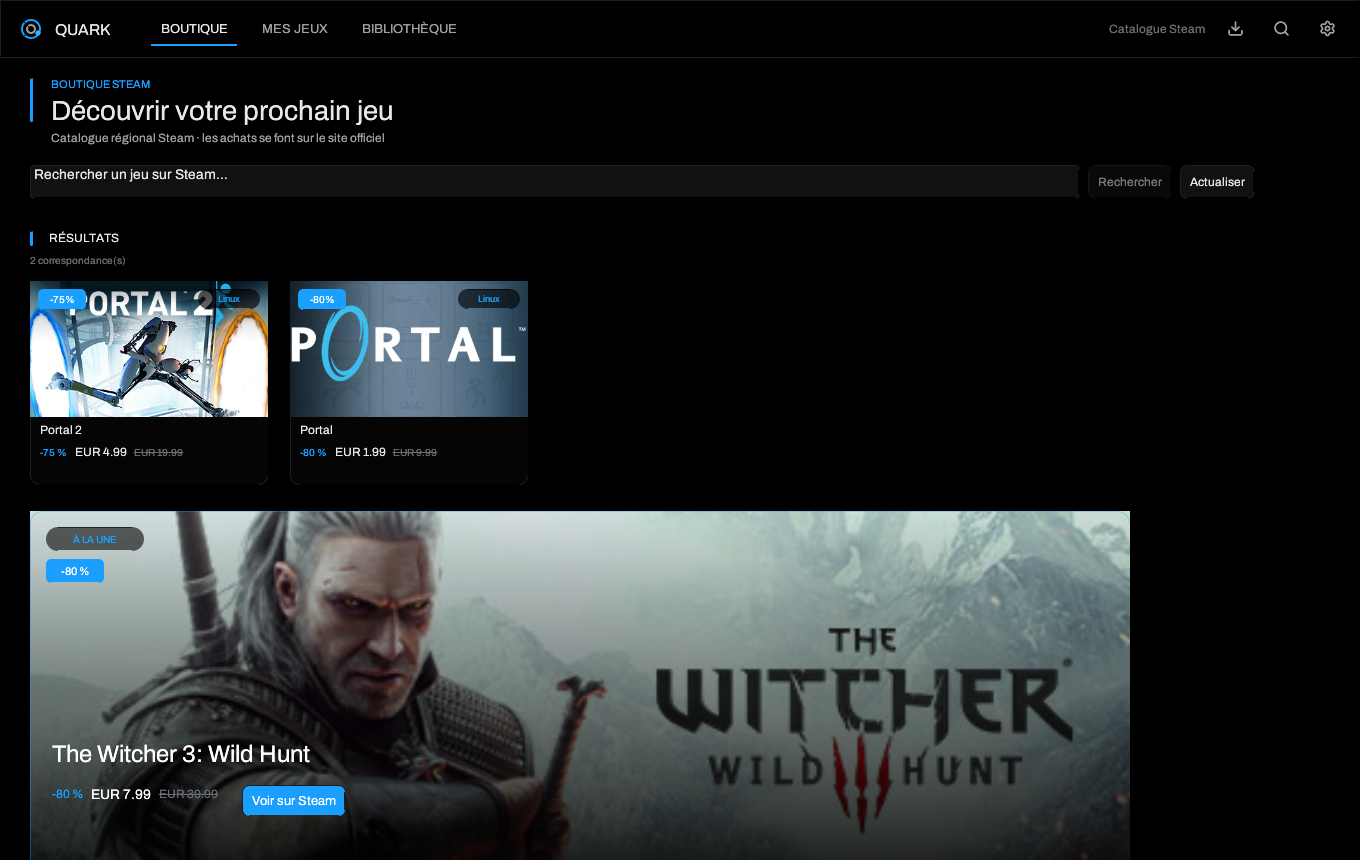
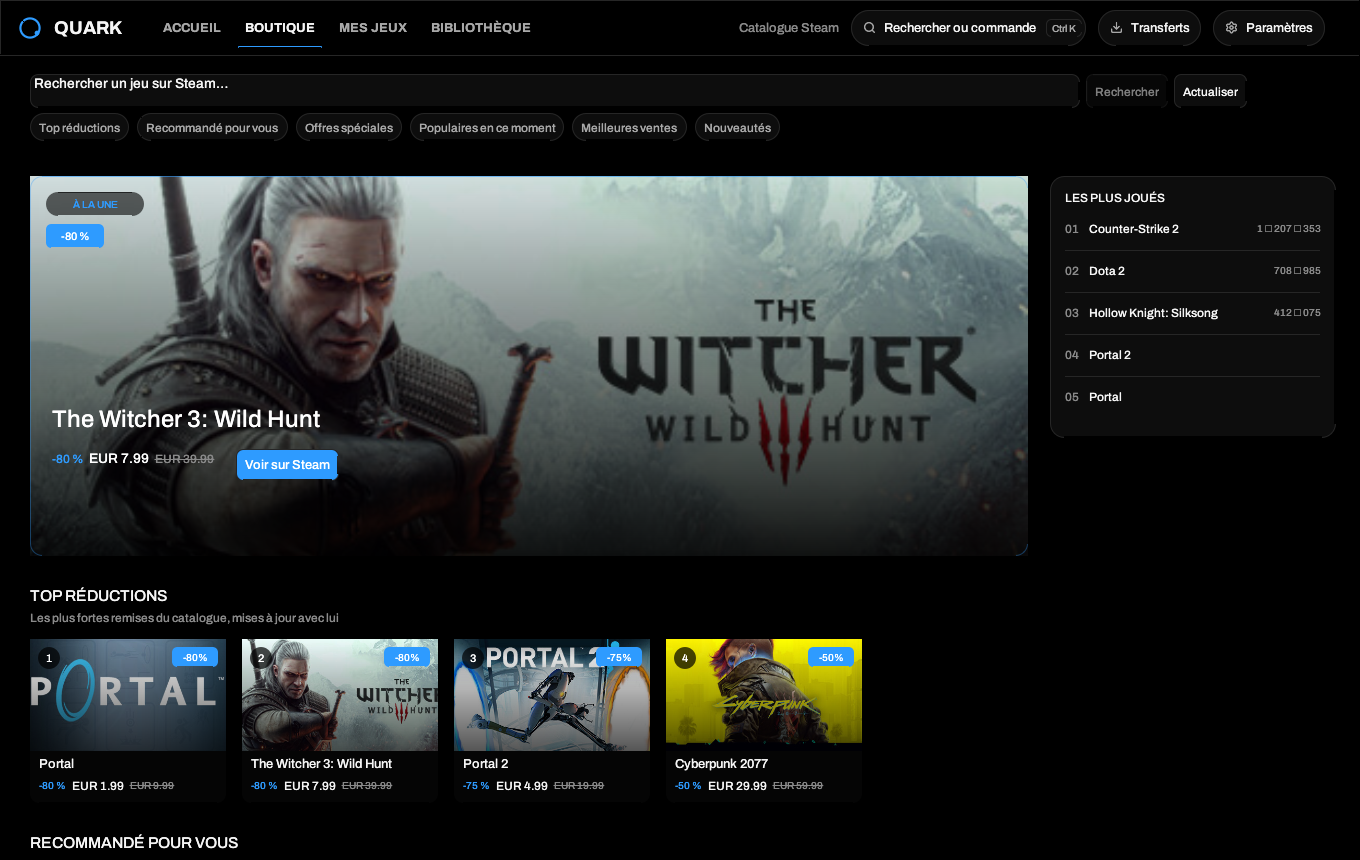
Fait de l'accueil une page autonome
L'accueil a désormais son propre onglet dans la barre haute et s'affiche
sans colonne de filtres. La bibliothèque garde la sienne, et l'état vide
commun guide vers l'ajout, Steam et les boutiques. Les captures du site et
le premier lancement sont mis à jour, avec itch.io et les cinq langues.

🤖 Generated with Codebuff

diff --git a/src/ui_library.rs b/src/ui_library.rs
@@ -19,12 +19,11 @@ impl QuarkApp {
         // Vue grille : **seulement** la grille. La fiche du jeu s'ouvre en
         // surimpression, avec sa croix, et se ferme d'un clic à côté.
         let grid_only = view == ViewMode::Grid;
-        // La colonne de gauche reste visible dans toutes les vues de la
-        // bibliothèque : c'est là que vivent « Accueil » et les filtres, même
-        // quand la grille occupe le reste de la fenêtre. Une bibliothèque
-        // entièrement vide n'a rien à y filtrer : la fiche prend toute la place.
-        let empty_library = self.lib.games.is_empty() && !self.home;
-        if !empty_library {
+        // L'accueil est une page autonome : il n'a pas de colonne de filtres.
+        // La bibliothèque garde la sienne, sauf quand elle est entièrement vide
+        // et que la fiche peut utiliser toute la largeur.
+        let empty_library = self.lib.games.is_empty();
+        if !self.home && !empty_library {
             egui::SidePanel::left("quark_library_list")
                 .exact_width(self.lib.settings.sidebar_width.clamp(220.0, 340.0))
                 .resizable(false)
@@ -56,7 +55,7 @@ impl QuarkApp {
                 }
             });
 
-        if grid_only {
+        if grid_only && !self.home {
             self.detail_overlay(ctx);
         }
     }
@@ -598,16 +597,8 @@ impl QuarkApp {
             });
         });
         ui.add_space(10.0);
-        let (home_clicked, add_clicked) = widgets::home_row(ui, self.home, &pal);
-        if home_clicked {
-            self.home = true;
-        }
-        if add_clicked {
-            self.open_add_dialog();
-        }
-
-        // Une seule commande sous « Accueil » : le panneau Filtres réunit
-        // aussi les vues enregistrées, le tri et le regroupement.
+        // L'accueil a son onglet dans la barre haute : la colonne ne garde que
+        // le panneau Filtres, qui réunit aussi les vues, le tri et le regroupement.
         self.filter_menu(ui, 16.0);
         if marked_count > 0 {
             // Barre de sélection : supprimer plusieurs jeux d'un coup.
@@ -1685,7 +1676,7 @@ impl QuarkApp {
         }
     }
 
-    fn empty_state(&mut self, ui: &mut egui::Ui) {
+    pub(crate) fn empty_state(&mut self, ui: &mut egui::Ui) {
         let pal = self.pal;
         // Une bibliothèque vide n'est pas une absence de sélection : on guide
         // vers les trois façons de la remplir au lieu d'afficher un texte seul.
@@ -1728,7 +1719,14 @@ impl QuarkApp {
                                 .color(pal.text_dim),
                             );
                             ui.add_space(20.0);
-                            ui.horizontal_wrapped(|ui| {
+                            // Les boutons sont mesurés pour centrer la rangée
+                            // sans dépendre de la largeur de leurs traductions.
+                            let row_width = 176.0
+                                + ui.spacing().item_spacing.x * 2.0
+                                + ghost_button_width(ui, "Importer Steam")
+                                + ghost_button_width(ui, "Explorer les boutiques");
+                            ui.horizontal(|ui| {
+                                ui.add_space((ui.available_width() - row_width).max(0.0) / 2.0);
                                 if widgets::accent_button(
                                     ui,
                                     Vec2::new(176.0, 38.0),
@@ -3002,4 +3000,15 @@ fn history_metric(ui: &mut egui::Ui, pal: &Palette, label: &str, value: &str) {
         ui.label(crate::i18n::rich(label).size(11.0).color(pal.text_faint));
         ui.label(crate::i18n::rich(value).size(15.0).strong().color(pal.text));
     });
+}
+
+/// Largeur du bouton fantôme tel que `widgets::ghost_button` le dessine :
+/// libellé traduit + icône + gouttière + marges.
+fn ghost_button_width(ui: &egui::Ui, label: &str) -> f32 {
+    let galley = ui.painter().layout_no_wrap(
+        crate::i18n::tr(label),
+        egui::FontId::proportional(12.5),
+        egui::Color32::WHITE,
+    );
+    galley.size().x + 13.0 + 8.0 + 24.0
 }

diff --git a/src/app.rs b/src/app.rs
@@ -3067,16 +3067,21 @@ impl QuarkApp {
                     );
                     ui.add_space(26.0);
 
-                    // L'accueil n'a plus d'onglet dédié : il s'ouvre par la
-                    // ligne « Accueil » de la colonne de gauche, juste au-dessus
-                    // des filtres. « Bibliothèque » reste actif sur les deux
-                    // pages, comme un seul et même espace.
-                    let library_active = self.tab == Tab::Library;
+                    // L'accueil est une page autonome : il a son propre onglet
+                    // et ne partage plus l'état actif de la bibliothèque.
+                    let home_active = self.tab == Tab::Library && self.home;
+                    let library_active = self.tab == Tab::Library && !self.home;
+                    if widgets::tab(ui, "Accueil", home_active, &pal).clicked() {
+                        self.tab = Tab::Library;
+                        self.home = true;
+                    }
                     if widgets::tab(ui, "Boutique", self.tab == Tab::Store, &pal).clicked() {
                         self.tab = Tab::Store;
+                        self.home = false;
                     }
                     if widgets::tab(ui, "Mes jeux", self.tab == Tab::MyGames, &pal).clicked() {
                         self.tab = Tab::MyGames;
+                        self.home = false;
                     }
                     if widgets::tab(ui, "Bibliothèque", library_active, &pal).clicked() {
                         self.tab = Tab::Library;
@@ -3090,7 +3095,7 @@ impl QuarkApp {
                         // recherche) et demande donc plus de place que les autres
                         // onglets. En dessous, on garde les icônes seules pour ne
                         // pas faire chevaucher les onglets.
-                        let wide_threshold = if self.tab == Tab::Library {
+                        let wide_threshold = if self.tab == Tab::Library && !self.home {
                             1480.0
                         } else {
                             1180.0
@@ -3149,8 +3154,9 @@ impl QuarkApp {
                         }
                         ui.add_space(6.0);
                         // La bibliothèque a déjà son champ de recherche :
-                        // l'icône de palette y faisait doublon.
-                        let palette_clicked = if self.tab == Tab::Library {
+                        // l'icône de palette y faisait doublon. L'accueil, lui,
+                        // garde la recherche globale.
+                        let palette_clicked = if self.tab == Tab::Library && !self.home {
                             false
                         } else if wide {
                             widgets::pill_button(
@@ -3180,7 +3186,7 @@ impl QuarkApp {
                         // Seul endroit où l'on bascule de vue : un contrôle
                         // segmenté aux libellés visibles, et un bouton
                         // « Ajouter » explicite à la place de trois icônes.
-                        if self.tab == Tab::Library {
+                        if self.tab == Tab::Library && !self.home {
                             if widgets::icon_button(ui, 34.0, Icon::Plus, &pal, "Ajouter un jeu")
                                 .clicked()
                             {
@@ -3201,7 +3207,7 @@ impl QuarkApp {
                             }
                             ui.add_space(10.0);
                         }
-                        if self.tab == Tab::Library {
+                        if self.tab == Tab::Library && !self.home {
                             ui.add_space(8.0);
                             if widgets::icon_button(
                                 ui,

diff --git a/src/widgets.rs b/src/widgets.rs
@@ -958,94 +958,6 @@ pub fn setting_toggle(
     response
 }
 
-/// Entrée « Accueil » : première ligne de la liste, pleine largeur comme dans
-/// Steam. Elle suit la même grille que les rangées de jeux (carré de 36 px à
-/// 16 px du bord, titre à 66 px, repère d'accent à gauche), si bien que la liste
-/// s'aligne du haut en bas. Le « + » d'ajout est posé à droite de la même ligne.
-/// Renvoie `(accueil cliqué, ajout cliqué)`.
-pub fn home_row(ui: &mut egui::Ui, selected: bool, pal: &Palette) -> (bool, bool) {
-    let (rect, resp) =
-        ui.allocate_exact_size(Vec2::new(ui.available_width(), 46.0), Sense::click());
-    let painter = ui.painter_at(rect);
-    let id = ui.id().with("quark-home-row");
-    let hover = ui
-        .ctx()
-        .animate_bool_with_time(id.with("hover"), resp.hovered(), 0.12);
-    let mark = ui
-        .ctx()
-        .animate_bool_with_time(id.with("selected"), selected, 0.16);
-    if hover > 0.0 {
-        painter.rect_filled(
-            rect,
-            10.0,
-            theme::lerp_color(Color32::TRANSPARENT, pal.surface_hover, hover),
-        );
-    }
-    if mark > 0.0 {
-        painter.rect_filled(rect, 10.0, pal.surface_hover.gamma_multiply(mark));
-        let height = (rect.height() - 10.0) * mark;
-        painter.rect_filled(
-            Rect::from_min_size(
-                Pos2::new(rect.left(), rect.center().y - height / 2.0),
-                Vec2::new(3.0, height),
-            ),
-            1.5,
-            pal.accent.gamma_multiply(mark),
-        );
-    }
-    let tile = Rect::from_min_size(
-        Pos2::new(rect.left() + 16.0, rect.center().y - 18.0),
-        Vec2::splat(36.0),
-    );
-    painter.rect_filled(
-        tile,
-        7.0,
-        theme::lerp_color(pal.surface, pal.surface_hover, hover),
-    );
-    let ink = if selected {
-        pal.text
-    } else {
-        theme::lerp_color(pal.text_dim, pal.text, hover)
-    };
-    paint_icon(
-        ui,
-        Rect::from_center_size(tile.center(), Vec2::splat(17.0)),
-        Icon::Home,
-        if selected { pal.accent } else { ink },
-    );
-    painter.text(
-        Pos2::new(rect.left() + 66.0, rect.center().y),
-        Align2::LEFT_CENTER,
-        crate::i18n::tr("Accueil"),
-        FontId::proportional(13.5),
-        ink,
-    );
-
-    // Le « + » est enregistré après la ligne : il reste au-dessus d'elle pour
-    // les clics.
-    let plus_rect = Rect::from_center_size(
-        Pos2::new(rect.right() - 26.0, rect.center().y),
-        Vec2::splat(28.0),
-    );
-    let plus = ui.interact(plus_rect, id.with("plus"), Sense::click());
-    let plus_hover = ui
-        .ctx()
-        .animate_bool_with_time(id.with("plus-hover"), plus.hovered(), 0.12);
-    painter.rect_filled(
-        plus_rect,
-        6.0,
-        theme::lerp_color(Color32::TRANSPARENT, pal.surface_hover, plus_hover),
-    );
-    paint_icon(
-        ui,
-        Rect::from_center_size(plus_rect.center(), Vec2::splat(15.0)),
-        Icon::Plus,
-        theme::lerp_color(pal.text_dim, pal.text, plus_hover),
-    );
-    let plus = plus.on_hover_text(crate::i18n::tr("Ajouter un jeu"));
-    (resp.clicked() && !plus.clicked(), plus.clicked())
-}
-
 /// Bouton icône posé **sur une image** (bannière) : un fond translucide rend le
 /// symbole lisible quelle que soit l'image, et sa couleur s'oppose au fond
 /// (sombre sur une bannière claire, clair sur une bannière sombre).

diff --git a/src/ui_home.rs b/src/ui_home.rs
@@ -54,7 +54,9 @@ impl QuarkApp {
                 ui.add_space(18.0);
                 if recent.is_empty() {
                     if self.lib.games.is_empty() {
-                        self.home_empty(ui);
+                        // Même écran que la bibliothèque vide : l'accueil ne
+                        // duplique plus un message de bienvenue séparé.
+                        self.empty_state(ui);
                     } else {
                         if self.favorites_section(ui) {
                             ui.add_space(30.0);
@@ -115,37 +117,6 @@ impl QuarkApp {
         }
         self.carousel = index % len;
         self.carousel_at = std::time::Instant::now();
-    }
-
-    fn home_empty(&mut self, ui: &mut egui::Ui) {
-        let pal = self.pal;
-        ui.vertical_centered(|ui| {
-            ui.add_space(120.0);
-            ui.label(
-                crate::i18n::rich("Bienvenue dans Quark")
-                    .size(22.0)
-                    .color(pal.text),
-            );
-            ui.add_space(8.0);
-            ui.label(
-                crate::i18n::rich("Ajoute un jeu pour le voir apparaître ici.")
-                    .size(13.0)
-                    .color(pal.text_dim),
-            );
-            ui.add_space(18.0);
-            if widgets::accent_button(
-                ui,
-                Vec2::new(190.0, 40.0),
-                "Ajouter un jeu",
-                &pal,
-                true,
-                Icon::Plus,
-            )
-            .clicked()
-            {
-                self.open_add_dialog();
-            }
-        });
     }
 
     // -----------------------------------------------------------------------

diff --git a/src/ui_onboarding.rs b/src/ui_onboarding.rs
@@ -164,7 +164,7 @@ impl QuarkApp {
         ui.add_space(4.0);
         ui.label(
             i18n::rich(
-                "Une seule bibliothèque pour les jeux locaux, Steam, Epic et GOG, avec les mêmes artworks, tags, notes et statistiques.",
+                "Une seule bibliothèque pour les jeux locaux, Steam, Epic, GOG et itch.io, avec les mêmes artworks, tags, notes et statistiques.",
             )
             .size(12.0)
             .color(pal.text_dim),
@@ -183,7 +183,7 @@ impl QuarkApp {
                 &pal,
                 Icon::Steam,
                 "Boutiques",
-                "Steam, Epic et GOG : comptes, installations, temps de jeu et sauvegardes cloud.",
+                "Steam, Epic, GOG et itch.io : comptes, installations, temps de jeu et sauvegardes cloud.",
             );
             onboarding_card(
                 &mut columns[1],
